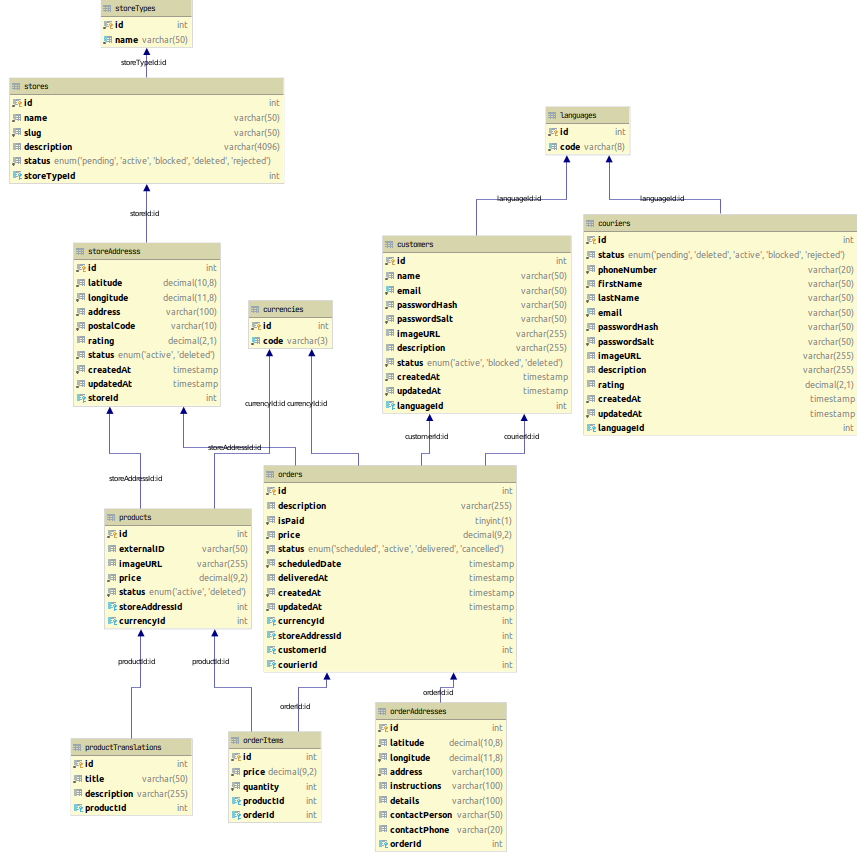
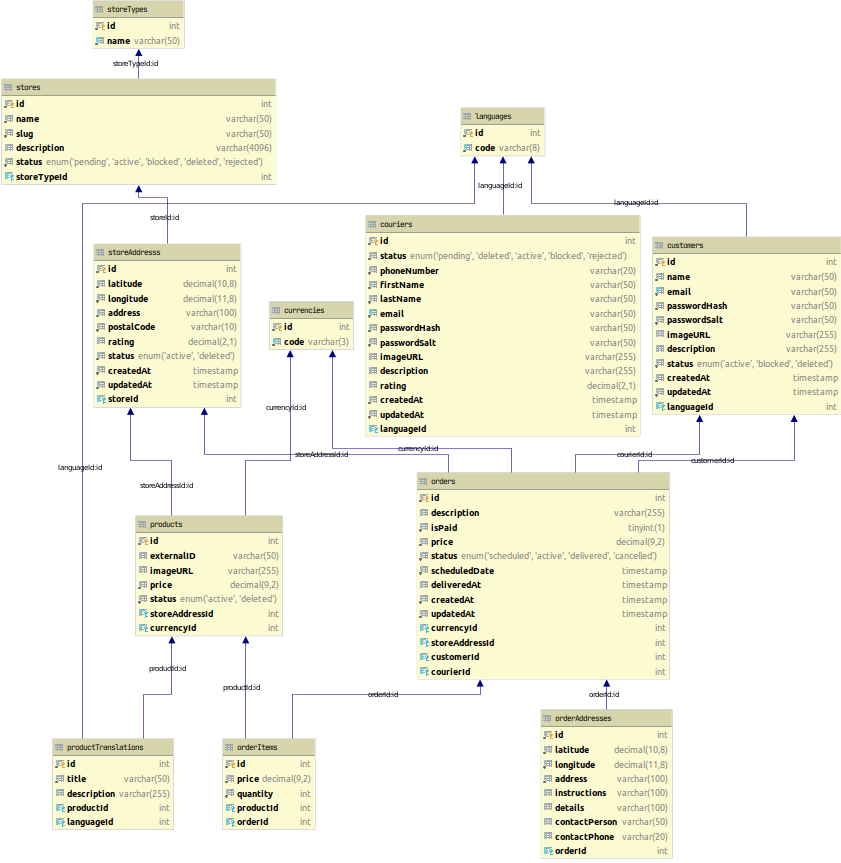
add missed product lang

diff --git a/src/seeds/product-translation.seed.ts b/src/seeds/product-translation.seed.ts
@@ -2,57 +2,68 @@ import { DeepPartial, getRepository } from 'typeorm';
 import { ProductTranslation } from '../entities/product-translation.entity';
 import ProductSeed from './product.seed';
 import { Seed } from '../lib/seed-run/runner';
+import LanguageSeed from './language.seed';
 
 export const seed: DeepPartial<ProductTranslation>[] = [
   {
     title: 'title_1',
     description: 'title_1',
     product: { id: 1 },
+    language: { id: 1 },
   },
   {
     title: 'title_2',
     description: 'title_2',
     product: { id: 2 },
+    language: { id: 1 },
   },
   {
     title: 'title_3',
     description: 'title_3',
     product: { id: 3 },
+    language: { id: 1 },
   },
   {
     title: 'title_4',
     description: 'title_4',
     product: { id: 4 },
+    language: { id: 1 },
   },
   {
     title: 'title_5',
     description: 'title_5',
     product: { id: 5 },
+    language: { id: 1 },
   },
   {
     title: 'title_6',
     description: 'title_6',
     product: { id: 6 },
+    language: { id: 1 },
   },
   {
     title: 'title_7',
     description: 'title_7',
     product: { id: 7 },
+    language: { id: 1 },
   },
   {
     title: 'title_8',
     description: 'title_8',
     product: { id: 8 },
+    language: { id: 1 },
   },
   {
     title: 'title_9',
     description: 'title_9',
     product: { id: 9 },
+    language: { id: 1 },
   },
   {
     title: 'title_10',
     description: 'title_10',
     product: { id: 10 },
+    language: { id: 1 },
   },
 ];
 
@@ -63,6 +74,7 @@ export default class ProductTranslationSeed implements Seed {
     const exist = await this.repo.findOne();
     if (exist) return false;
 
+    await new LanguageSeed().up();
     await new ProductSeed().up();
 
     await this.repo.save(seed);

diff --git a/src/migrations/1591652395410-fixProductTran.ts b/src/migrations/1591652395410-fixProductTran.ts
@@ -1,0 +1,16 @@
+import {MigrationInterface, QueryRunner} from "typeorm";
+
+export class fixProductTran1591652395410 implements MigrationInterface {
+    name = 'fixProductTran1591652395410'
+
+    public async up(queryRunner: QueryRunner): Promise<void> {
+        await queryRunner.query("ALTER TABLE `productTranslations` ADD `languageId` int NULL");
+        await queryRunner.query("ALTER TABLE `productTranslations` ADD CONSTRAINT `FK_8f6362d28b2eb615f069aa5c191` FOREIGN KEY (`languageId`) REFERENCES `languages`(`id`) ON DELETE SET NULL ON UPDATE CASCADE");
+    }
+
+    public async down(queryRunner: QueryRunner): Promise<void> {
+        await queryRunner.query("ALTER TABLE `productTranslations` DROP FOREIGN KEY `FK_8f6362d28b2eb615f069aa5c191`");
+        await queryRunner.query("ALTER TABLE `productTranslations` DROP COLUMN `languageId`");
+    }
+
+}

diff --git a/src/entities/product-translation.entity.ts b/src/entities/product-translation.entity.ts
@@ -1,5 +1,6 @@
 import { Entity, PrimaryGeneratedColumn, ManyToOne, Column } from 'typeorm';
 import { Product } from './product.entity';
+import { Language } from './language.entity';
 
 @Entity('productTranslations')
 export class ProductTranslation implements AppEntity.ProductTranslation {
@@ -14,4 +15,7 @@ export class ProductTranslation implements AppEntity.ProductTranslation {
 
   @ManyToOne(() => Product, { onDelete: 'CASCADE', onUpdate: 'CASCADE' })
   product: Product;
+
+  @ManyToOne(() => Language, { onUpdate: 'CASCADE', onDelete: 'SET NULL' })
+  language: Language;
 }

diff --git a/src/types/entities/store.entity.d.ts b/src/types/entities/store.entity.d.ts
@@ -50,5 +50,6 @@ declare namespace AppEntity {
     title: string;
     description?: string;
     product: Product;
+    language: Language;
   }
 }
